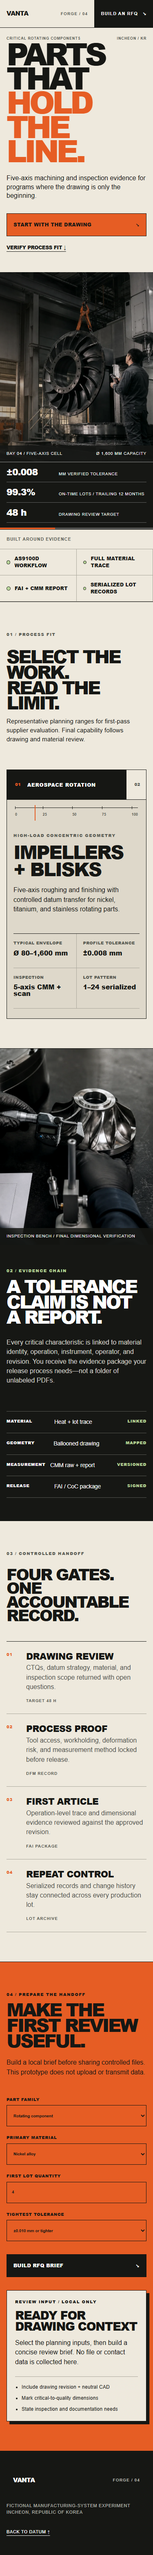
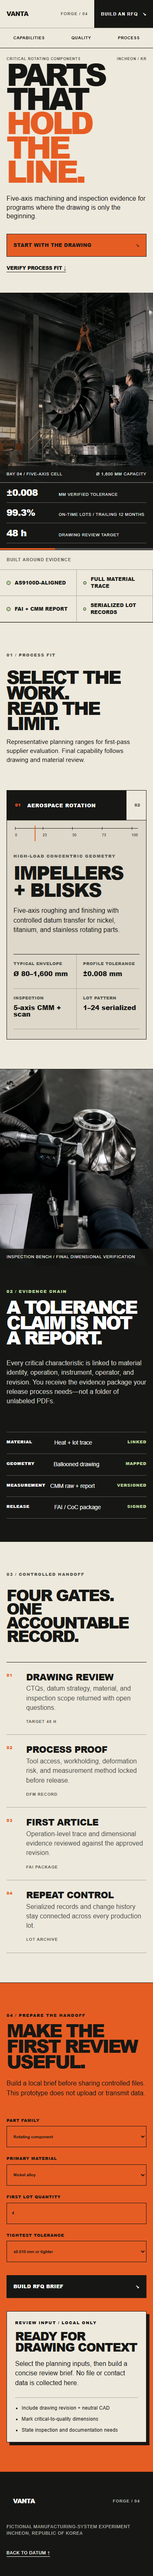
restore mobile navigation in VANTA review

Changed region(s): [[0.0, 0.0, 1.0, 0.9981], [0.7627, 0.0, 0.792, 0.0312], [0.2053, 0.9669, 0.2347, 0.9981]]

diff --git a/experiments/vanta-forge/styles.css b/experiments/vanta-forge/styles.css
@@ -150,7 +150,9 @@ footer a { color: white; text-underline-offset: .3rem; }
 
 @media (max-width: 980px) {
   .site-header { grid-template-columns: 1fr auto; }
-  .site-header nav { display: none; }
+  .site-header .brand { grid-column: 1; grid-row: 1; }
+  .site-header .header-cta { grid-column: 2; grid-row: 1; min-height: 5rem; }
+  .site-header nav { grid-column: 1 / -1; grid-row: 2; display: flex; min-height: 3rem; justify-content: space-around; border: 0; border-top: 1px solid var(--rule); }
   .hero { grid-template-columns: 1fr; }
   .hero-copy { min-height: 42rem; }
   .hero-media { min-height: 65vh; }
@@ -170,6 +172,9 @@ footer a { color: white; text-underline-offset: .3rem; }
   .site-header { min-height: 4.25rem; }
   .brand { padding: 1rem; }
   .header-cta { gap: .75rem; padding: 0 1rem; }
+  .site-header .header-cta { min-height: 4.25rem; }
+  .site-header nav { gap: 0; }
+  .site-header nav a { min-height: 3rem; display: inline-flex; align-items: center; padding-inline: .5rem; font-size: .61rem; }
   .hero { min-height: 0; }
   .hero-copy { min-height: 35rem; padding: 1.25rem 1rem 2rem; }
   .eyebrow { font-size: .56rem; }

diff --git a/tests/vanta.spec.ts b/tests/vanta.spec.ts
@@ -16,6 +16,7 @@ test('VANTA Forge visual baseline and supplier-evaluation paths', async ({ page 
   await expect(page.locator('#capabilities')).toBeVisible();
   await expect(page.locator('#quality')).toBeVisible();
   await expect(page.locator('#rfq')).toBeVisible();
+  await expect(page.locator('nav[aria-label="Primary navigation"]')).toBeVisible();
 
   const overflow = await page.evaluate(() => document.documentElement.scrollWidth > document.documentElement.clientWidth + 1);
   expect(overflow, 'horizontal overflow detected').toBeFalsy();

diff --git a/experiments/vanta-forge/index.html b/experiments/vanta-forge/index.html
@@ -48,7 +48,7 @@
     <section class="proof-strip" aria-label="Program standards">
       <p>Built around evidence</p>
       <ul>
-        <li>AS9100D workflow</li>
+        <li>AS9100D-aligned</li>
         <li>Full material trace</li>
         <li>FAI + CMM report</li>
         <li>Serialized lot records</li>

diff --git a/experiments/vanta-forge/review.md b/experiments/vanta-forge/review.md
@@ -28,6 +28,7 @@ More importantly, all capability claims, standards language, and workflow detail
 Playwright passes at 320×568, 375×812, 390×844, 768×1024, 1440×900, and 1920×1080. Every viewport verifies:
 
 - no horizontal overflow, dead hash links, or console/page errors;
+- persistent primary section navigation on tablet and phone widths;
 - critical content visibility under reduced motion;
 - 44 px minimum critical pointer targets;
 - production-family `aria-pressed` state and linked evidence changes;
